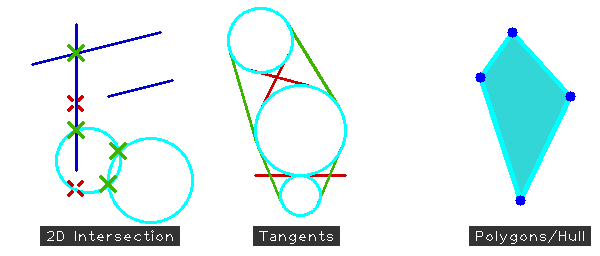
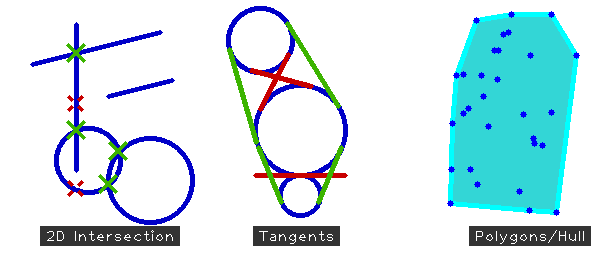
update visuals

diff --git a/examples/python3/geometry_demo.py b/examples/python3/geometry_demo.py
@@ -63,12 +63,12 @@ def demo_intersect(img):
     
     ##### Draw
     img = imvis.draw_circles(img, [c[0] for c in circles], [c[1] for c in circles],
-        default_color=(0, 255, 255), thickness=2)
-    img = imvis.draw_lines(img, lines, default_color=(0, 0, 200), line_width=2)
+        default_color=(0, 0, 200), thickness=3)
+    img = imvis.draw_lines(img, lines, default_color=(0, 0, 200), line_width=3)
     # img = imvis.draw_points(img, intersection_points, color=(60, 180, 0), radius=10, line_width=2, opacity=1)
     # img = imvis.draw_points(img, wannabe_intersection_points, color=(200, 0, 0), radius=10, line_width=2, opacity=1)
-    img = imvis.draw_crosses(img, intersection_points, color=(60, 180, 0), diagonal=20, line_width=2, vertical=False, opacity=1)
-    img = imvis.draw_crosses(img, wannabe_intersection_points, color=(200, 0, 0), diagonal=20, line_width=2, vertical=False, dash_length=9, opacity=1)
+    img = imvis.draw_crosses(img, intersection_points, color=(60, 180, 0), diagonal=20, line_width=3, vertical=False, opacity=1)
+    img = imvis.draw_crosses(img, wannabe_intersection_points, color=(200, 0, 0), diagonal=20, line_width=3, vertical=False, dash_length=9, opacity=1)
     # Add label
     return imvis.draw_text_box(img, '2D Intersection',
             (110, img.shape[0]-10),
@@ -87,7 +87,7 @@ def _tangent_helper(img, center1, radius1, center2, radius2):
         if num_transverse == 2:
             tt.append(tt2)
     if tt:
-        img = imvis.draw_lines(img, tt, default_color=(200, 0, 0), line_width=2)
+        img = imvis.draw_lines(img, tt, default_color=(200, 0, 0), line_width=3)
 
     td = list()
     if num_direct > 0:
@@ -95,13 +95,7 @@ def _tangent_helper(img, center1, radius1, center2, radius2):
         if num_direct == 2:
             td.append(td2)
     if td:
-        img = imvis.draw_lines(img, td, default_color=(60, 180, 0), line_width=2)
-
-    img = imvis.draw_circles(img, [center1, center2], [radius1, radius2],
-        default_color=(0, 255, 255), thickness=2)
-
-    # bboxes = [([center1[0]-radius1, center1[1]-radius1, 2*radius1, 2*radius1], (0, 0, 255), '{:d} | {:d}'.format(num_transverse, num_direct))]
-    # img = imvis.draw_bboxes2d(img, bboxes, text_anchor='center', line_width=0, fill_opacity=0.0)
+        img = imvis.draw_lines(img, td, default_color=(60, 180, 0), line_width=3)
     return img
 
 
@@ -109,6 +103,10 @@ def demo_tangents(img):
     c1 = ((260, 40), 32) # Center, radius 
     c2 = ((300, 130), 45)
     c3 = ((300, 195), 20)
+
+    img = imvis.draw_circles(img, [c1[0], c2[0], c3[0]], [c1[1], c2[1], c3[1]],
+        default_color=(0, 0, 200), thickness=3)
+    
     img = _tangent_helper(img, *c1, *c2)
     img = _tangent_helper(img, *c2, *c3)
     # Add label
@@ -120,17 +118,24 @@ def demo_tangents(img):
 
 
 def demo_convhull(img):
-    pts = [
-        (512, 32),
-        (480, 77),
-        (520, 200),
-        (570, 96)
-    ]
+    # pts = [
+    #     (480, 26),
+    #     (508, 188),
+    #     (512, 32),
+    #     (480, 77),
+    #     (520, 200),
+    #     (570, 96)
+    # ]
+    pts = list()
+    for _ in range(30):
+        x = np.random.randint(450, img.shape[1] - 20)
+        y = np.random.randint(10, img.shape[0] - 40)
+        pts.append((x, y))
     #TODO random sample?
     chull = math2d.convex_hull(pts)
     # Draw convex hull as closed polygon (need to append first hull point)
     img = imvis.draw_polygon(img, [*chull, chull[0]], color=(0, 255, 255), line_width=3, dash_length=-1, fill_opacity=0.8)
-    img = imvis.draw_points(img, pts, color=(0, 0, 255), radius=5, line_width=-1, opacity=1)
+    img = imvis.draw_points(img, pts, color=(0, 0, 255), radius=3, line_width=-1, opacity=1)
     # Add label
     return imvis.draw_text_box(img, 'Polygons/Hull',
             (530, img.shape[0]-10),
